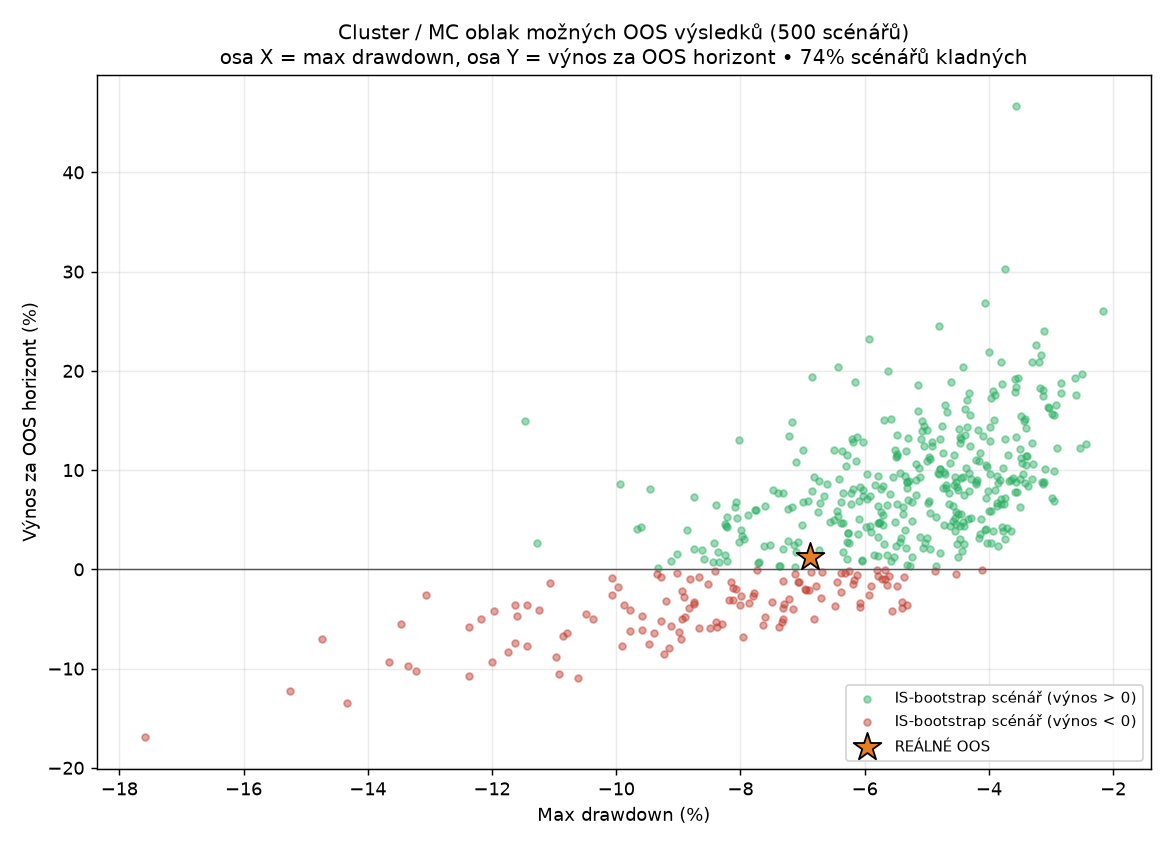
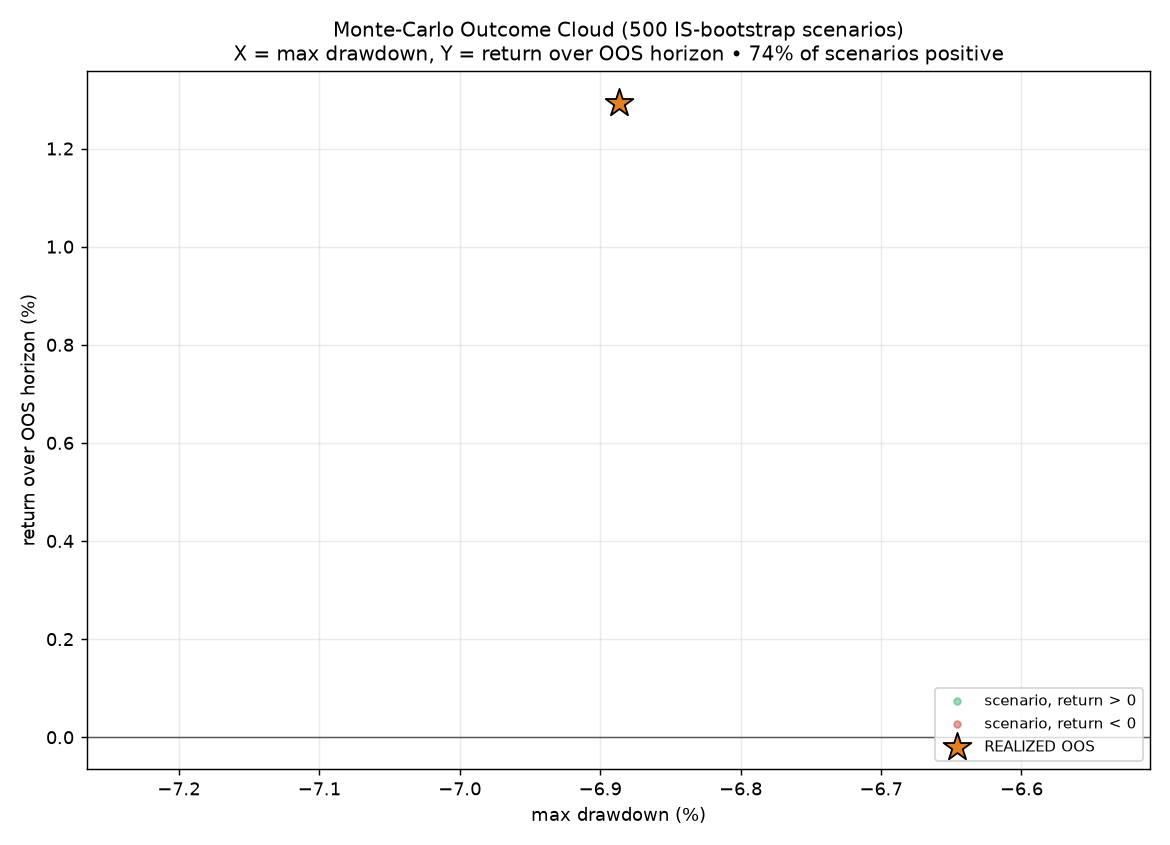
QC: 2D param grid (band x TP) pro overfitting diagnózu + EN figury
Projekt vwap_trend_grid2d (PID 34243168): 12 pásem × 8 TP = 96 kombinací
"poslední verze" strategie (1td, bez reverzu), IS 2018→2025-09-30, per
buňka IS total return + Sharpe → spike-vs-plateau heatmapa. Grafy
robustnosti přeloženy do EN + přidána 1D parameter curve (band sweep).

Claude-Session: https://claude.ai/code/session_013r7ovPSZArf9XucUhV1eXv

diff --git a/research/vwap_trend_grid2d/main.py b/research/vwap_trend_grid2d/main.py
@@ -1,0 +1,161 @@
+# region imports
+from AlgorithmImports import *
+# endregion
+
+# =====================================================================
+# PROJEKT 3 — 2D PARAMETER GRID (band x TP) pro overfitting diagnózu.
+# "Poslední verze" strategie (1 trade/den, bez reverzu) na NQ, IS only
+# 2018-01-02 -> 2025-09-30. Pro každou kombinaci (band_bps, tp_points)
+# spočítá IS total return + Sharpe. Cíl: spike (overfit) vs plateau
+# (robust) heatmapa. Nasazená buňka = band=20, tp=none.
+# TP > 0 = reálný intrabar limit exit; tp=0 = bez TP (exit pásmo/EOD).
+# Náklad 1.2 bps round-turn. NIC se nemění podle výsledku (diagnóza).
+# =====================================================================
+
+OPEN_BAR_MIN = 9 * 60 + 31
+CLOSE_MIN = 16 * 60
+COST = 1.2 / 1e4
+BANDS = [8, 10, 12, 14, 16, 18, 20, 22, 24, 26, 28, 30]
+TPS = [0, 250, 180, 130, 100, 75, 55, 40]     # 0 = bez TP
+
+
+class Sim:
+    def __init__(self, band_bps, tp_pts):
+        self.band = band_bps / 1e4
+        self.band_bps = band_bps
+        self.tp = tp_pts
+        self.nav = 100000.0
+        self.pos = 0
+        self.entry = 0.0
+        self.shares = 0.0
+        self.tp_level = None
+        self.pending_entry = 0
+        self.pending_exit = False
+        self.traded_today = False
+        self.n = 0
+        self.wins = 0
+        self.prev_day_nav = None
+        self.sr = 0.0
+        self.sr2 = 0.0
+        self.nd = 0
+
+    def entry_(self, price, d):
+        self.pos = d; self.entry = price; self.shares = self.nav / price
+        self.tp_level = (price + d * self.tp) if self.tp else None
+
+    def close_(self, price):
+        gross = self.pos * (price - self.entry) * self.shares
+        self.nav += gross - self.entry * self.shares * COST
+        self.n += 1
+        if gross - self.entry * self.shares * COST > 0:
+            self.wins += 1
+        self.pos = 0; self.entry = 0.0; self.shares = 0.0; self.tp_level = None
+
+    def day_return(self):
+        if self.prev_day_nav:
+            r = self.nav / self.prev_day_nav - 1
+            self.sr += r; self.sr2 += r * r; self.nd += 1
+        self.prev_day_nav = self.nav
+
+
+class Grid2D(QCAlgorithm):
+
+    def initialize(self):
+        self.set_start_date(2018, 1, 2)
+        self.set_end_date(2025, 9, 30)          # IS only
+        self.set_cash(100000)
+        self.set_time_zone(TimeZones.NEW_YORK)
+        fut = self.add_future(
+            Futures.Indices.NASDAQ_100_E_MINI, resolution=Resolution.MINUTE,
+            data_mapping_mode=DataMappingMode.OPEN_INTEREST,
+            data_normalization_mode=DataNormalizationMode.BACKWARDS_RATIO,
+            contract_depth_offset=0, extended_market_hours=False)
+        fut.set_filter(0, 182)
+        self.sym = fut.symbol
+        self.sims = [Sim(b, tp) for b in BANDS for tp in TPS]
+        self.cur_date = None
+        self.cum_pv = 0.0
+        self.cum_v = 0.0
+        self.last_close = None
+
+    def on_data(self, data: Slice):
+        if self.sym not in data.bars:
+            return
+        bar = data.bars[self.sym]
+        t = self.time
+        minutes = t.hour * 60 + t.minute
+        d = t.date()
+
+        if self.cur_date != d:
+            if self.cur_date is not None:
+                for s in self.sims:
+                    if s.pos != 0 and self.last_close:
+                        s.close_(self.last_close)
+                    s.pending_entry = 0; s.pending_exit = False
+                    s.traded_today = False
+                    s.day_return()
+            self.cur_date = d
+            self.cum_pv = 0.0; self.cum_v = 0.0; self.last_close = None
+
+        if not (OPEN_BAR_MIN <= minutes <= CLOSE_MIN):
+            return
+
+        # fill pending na open
+        for s in self.sims:
+            if s.pending_exit and s.pos != 0:
+                s.close_(bar.open)
+            s.pending_exit = False
+            if s.pending_entry != 0 and s.pos == 0:
+                s.entry_(bar.open, s.pending_entry)
+            s.pending_entry = 0
+
+        v = float(bar.volume)
+        if v > 0:
+            self.cum_pv += ((bar.high + bar.low + bar.close) / 3.0) * v
+            self.cum_v += v
+        self.last_close = bar.close
+        if self.cum_v <= 0:
+            return
+        vwap = self.cum_pv / self.cum_v
+        is_eod = (minutes == CLOSE_MIN)
+
+        for s in self.sims:
+            up = vwap * (1 + s.band); dn = vwap * (1 - s.band)
+            if is_eod:
+                s.pending_entry = 0; s.pending_exit = False
+                if s.pos != 0:
+                    s.close_(bar.close)
+                continue
+            # TP intrabar limit
+            if s.pos != 0 and s.tp_level is not None:
+                if s.pos == 1 and bar.high >= s.tp_level:
+                    s.close_(s.tp_level); continue
+                if s.pos == -1 and bar.low <= s.tp_level:
+                    s.close_(s.tp_level); continue
+            if s.pos == 1:
+                if bar.close < dn: s.pending_exit = True
+            elif s.pos == -1:
+                if bar.close > up: s.pending_exit = True
+            else:
+                if not s.traded_today:
+                    if bar.close > up:
+                        s.pending_entry = 1; s.traded_today = True
+                    elif bar.close < dn:
+                        s.pending_entry = -1; s.traded_today = True
+
+    def on_end_of_algorithm(self):
+        import math
+        for s in self.sims:
+            if s.pos != 0 and self.last_close:
+                s.close_(self.last_close)
+            s.day_return()
+            ret = s.nav / 100000.0 - 1
+            if s.nd > 1:
+                mean = s.sr / s.nd
+                var = max(s.sr2 / s.nd - mean * mean, 0.0)
+                sd = math.sqrt(var)
+                sharpe = (mean / sd * math.sqrt(252)) if sd > 0 else 0.0
+            else:
+                sharpe = 0.0
+            self.log(f"###G2D### band={s.band_bps} tp={s.tp} "
+                     f"ret={ret*100:.2f} sharpe={sharpe:.3f} n={s.n} wins={s.wins}")
